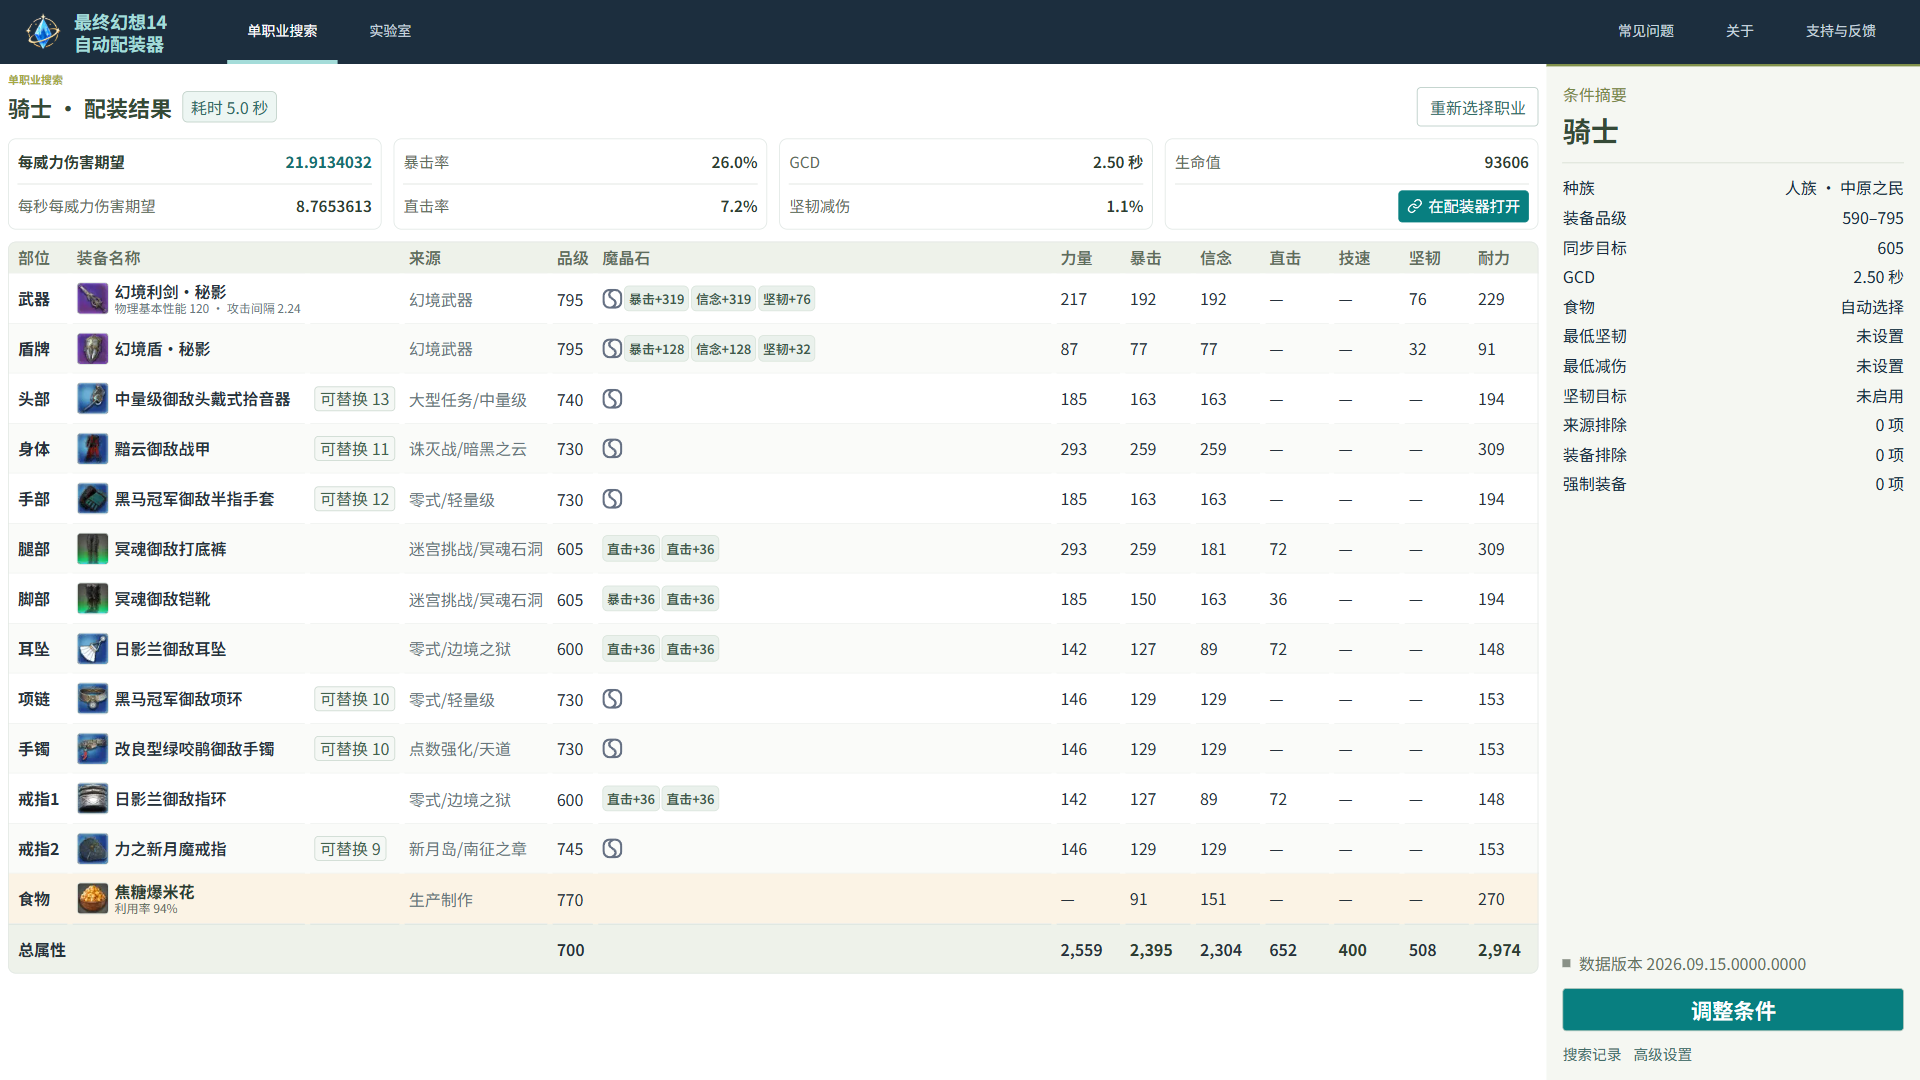
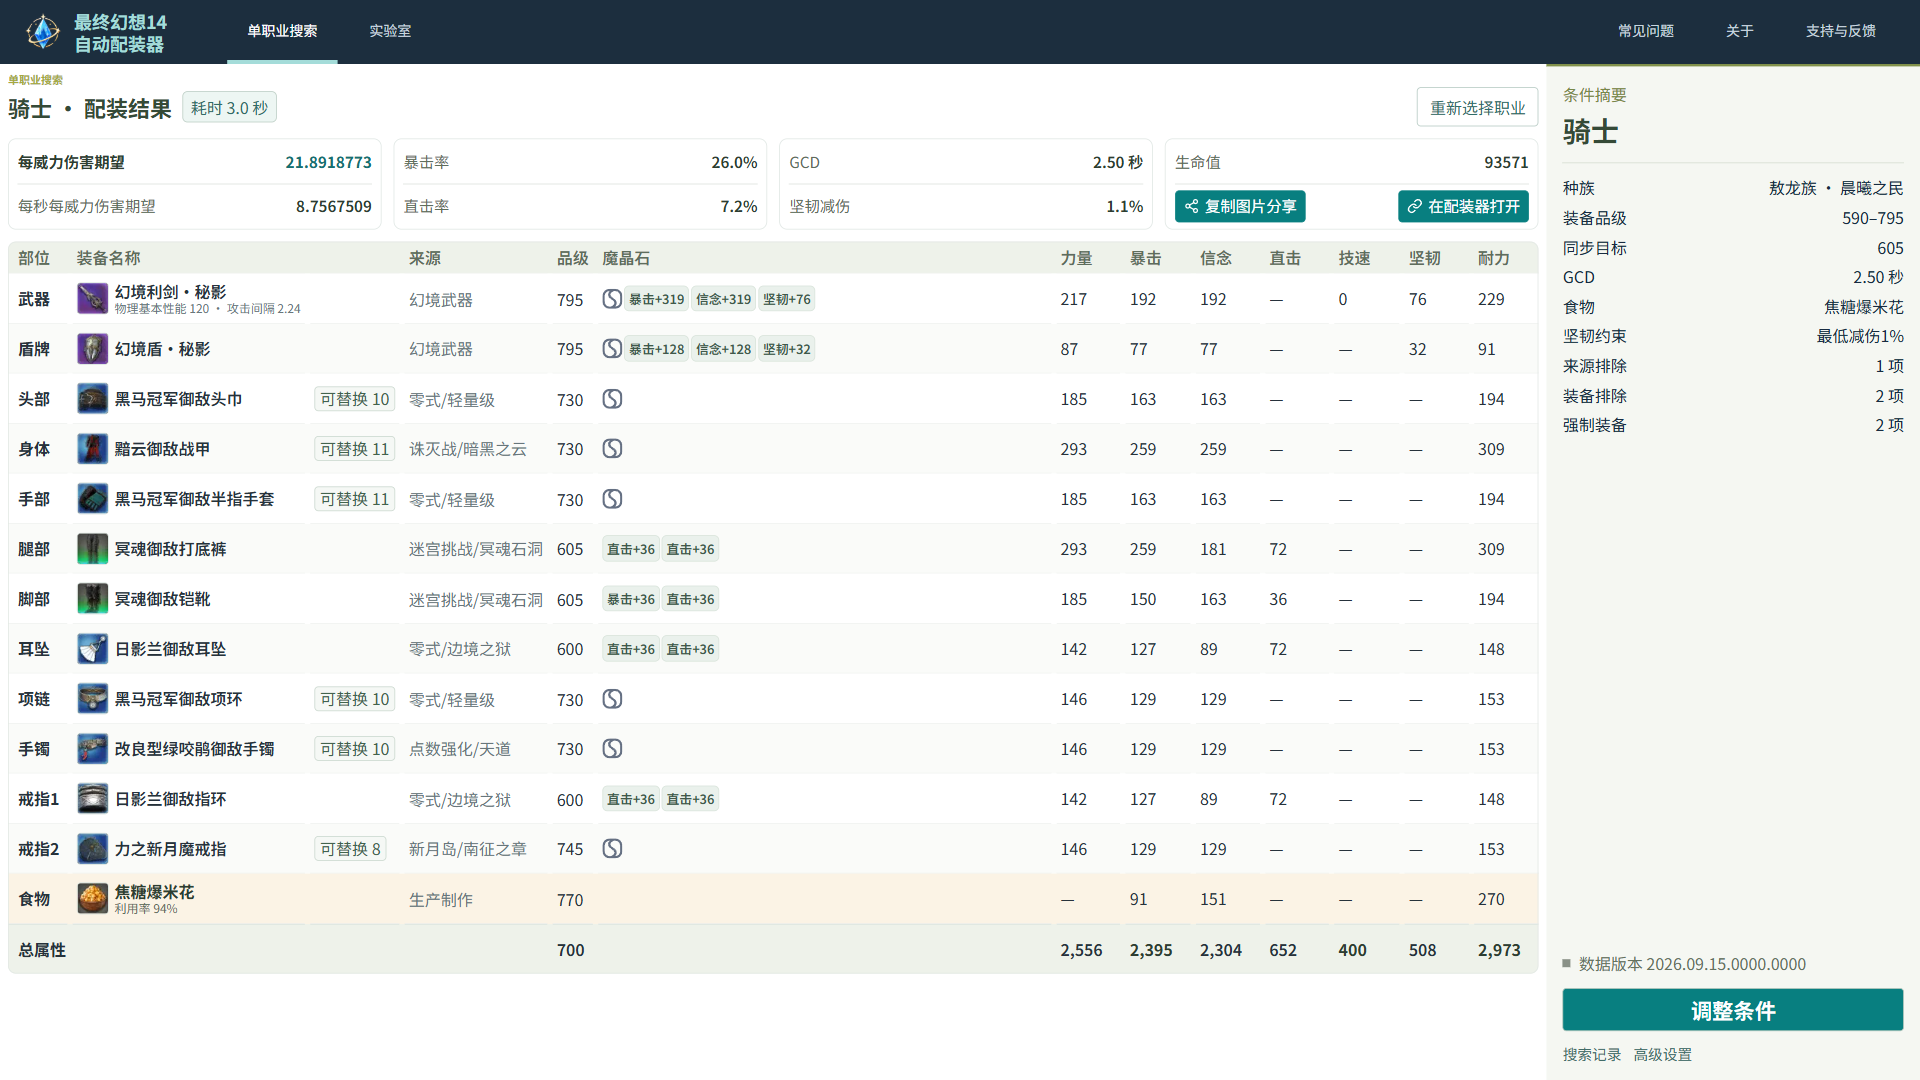
docs: refresh README screenshots and tenacity example

diff --git a/README.md b/README.md
@@ -31,14 +31,14 @@
 
 配装结果：
 
-![骑士在幻想龙诗绝境战品级 605 同步下的配装结果，展示装备、属性与「可替换」入口](docs/images/search-result.png)
+![骑士在品级 605 同步、最低减伤 1% 条件下的配装结果，展示装备、属性、图片分享与「可替换」入口](docs/images/search-result.png)
 
 <details>
 <summary>更多截图</summary>
 
-**单职业搜索**：设置装备范围、食物、GCD 和装备限制。
+**单职业搜索**：设置装备范围、食物、GCD、坚韧和装备限制，示例选择「最低减伤百分比」。
 
-![单职业搜索条件设置](docs/images/single-search.png)
+![单职业搜索条件设置，坚韧策略选择最低减伤百分比，示例下限为 1%](docs/images/single-search.png)
 
 **多职业联合搜索**：选择共享部位与食物策略，通过职业标签分别设置条件。
 
